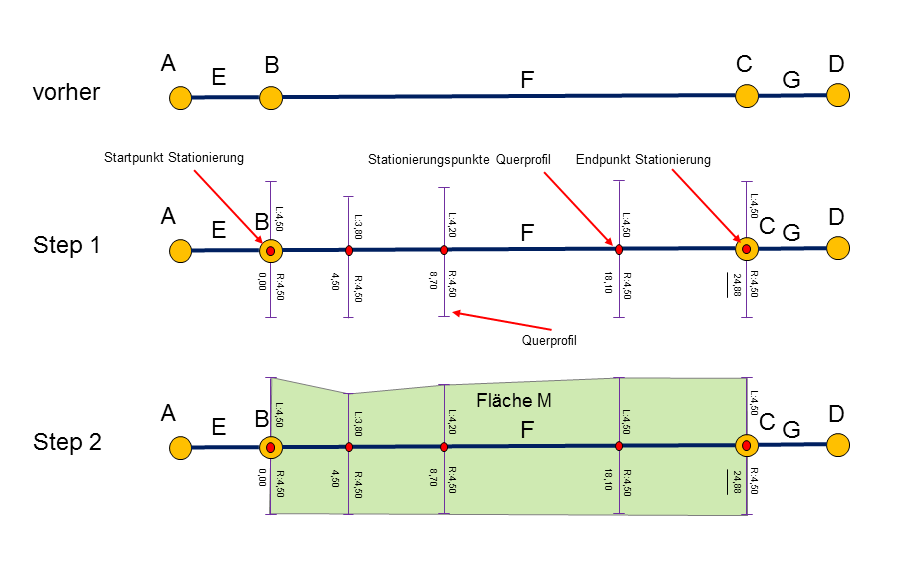
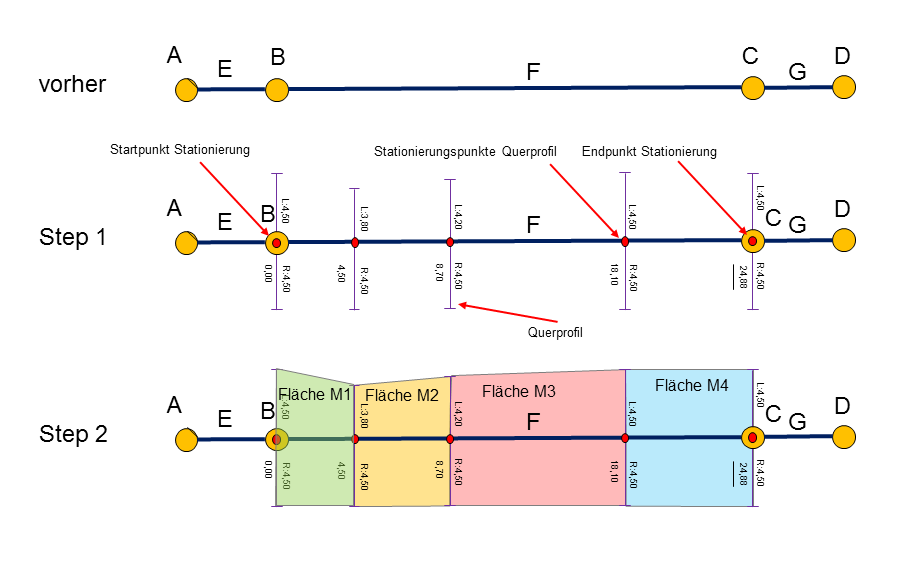
Korrekturen nach Verständigung auf Treffen am 06.11.2018

diff --git a/source/flaechen/flaeche-bearbeiten-trapezmodell.rst b/source/flaechen/flaeche-bearbeiten-trapezmodell.rst
@@ -14,14 +14,15 @@ Geometrie
     * optionale Verschiebung des Start-Straßenelementpunktes oder Neuauswahl des Start-Verbindungspunktes
     * optionale Verschiebung des Ende-Straßenelementpunktes oder Neuauswahl des Ende-Verbindungspunktes
     * optionale Verschiebung, Löschung und/oder Erfassung der dazwischenliegenden Straßenelementpunkte
-    * optionale Neuingabe der L- und/oder R-Ordinaten der Querprofile
-#. Anpassung der Fläche als geschlossenes Polygon (**noch** zu realisieren auf **Applikationsebene**)
-#. falls Straßenelementpunkte entstanden sind: Teilelement auf Straßenelement bilden (**noch** zu realisieren auf **Datenbankebene**)
-#. falls Straßenelementpunkte entstanden sind: Verknüpfung des Teilelementes, der Straßenelementpunkte und des betroffenen Straßenelementes mit der Fläche – Erfüllung der Bedingung der Verknüpfung zwischen Straßenelement und Fläche (**noch** zu realisieren auf **Datenbankebene**)
-#. falls keine Straßenelementpunkte entstanden sind: Verknüpfung des betroffenen Straßenelementes mit der Fläche – Erfüllung der Bedingung der Verknüpfung zwischen Straßenelement und Fläche (**noch** zu realisieren auf **Datenbankebene**)
+    * optionale Neuingabe aller L- und/oder R-Ordinaten der Querprofile
+#. Anpassung der Querschnittsflächen als einzelne, geschlossene Polygone (**noch** zu realisieren auf **Applikationsebene**)
+#. falls Straßenelementpunkte entstanden sind: Teilelemente auf Straßenelement bilden (**noch** zu realisieren auf **Datenbankebene**)
+#. falls Straßenelementpunkte entstanden sind: Verknüpfung der Teilelemente, der Straßenelementpunkte und des betroffenen Straßenelementes mit jeweils passender Querschnittsfläche – Erfüllung der Bedingung der Verknüpfung zwischen Straßenelement und Fläche (**noch** zu realisieren auf **Datenbankebene**)
+#. falls keine Straßenelementpunkte entstanden sind: Verknüpfung des betroffenen Straßenelementes mit der Querschnittsfläche – Erfüllung der Bedingung der Verknüpfung zwischen Straßenelement und Fläche (**noch** zu realisieren auf **Datenbankebene**)
 #. Prüfung der Topologie (**noch** zu realisieren auf **Datenbankebene**)
+#. Anpassung der verknüpften, übergeordneten Verkehrsfläche (**noch** zu realisieren auf **Datenbankebene**)
 
-**Anmerkung:** Im Resultat ist dieser Anwendungsfall identisch mit dem Anwendungsfall :doc:`../flaechen/flaeche-erfassen-zeichnen`, da in beiden Fällen die Applikationsebene einfach eine Fläche an die Datenbankebene übergibt. Nur die konstruktionsbezogene Herangehensweise auf Applikationsebene ist unterschiedlich. Grundsätzlich gilt: Wurde eine Fläche mittels Stationierung und Querprofil erfasst, soll sie dennoch mittels Zeichnen weiterbearbeitet werden können.
+**Anmerkung:** Im Resultat ist dieser Anwendungsfall identisch mit dem Anwendungsfall :doc:`../flaechen/flaeche-erfassen-zeichnen`, da in beiden Fällen die Applikationsebene einfach Flächen an die Datenbankebene übergibt. Nur die konstruktionsbezogene Herangehensweise auf Applikationsebene ist unterschiedlich. Grundsätzlich gilt: Wurde eine Fläche mittels Stationierung und Querprofil erfasst, soll sie dennoch mittels Zeichnen weiterbearbeitet werden können.
 
 .. _flaeche-bearbeiten-trapezmodell_sachdaten:
 

diff --git a/source/flaechen/flaeche-erfassen-trapezmodell.rst b/source/flaechen/flaeche-erfassen-trapezmodell.rst
@@ -14,14 +14,15 @@ Geometrie
     * Erfassung des Start-Straßenelementpunktes oder Auswahl des Start-Verbindungspunktes
     * Erfassung des Ende-Straßenelementpunktes oder Auswahl des Ende-Verbindungspunktes
     * Erfassung der dazwischenliegenden Straßenelementpunkte
-    * Eingabe der L- und R-Ordinaten der Querprofile
-#. Erzeugung einer Fläche als geschlossenes Polygon (**noch** zu realisieren auf **Applikationsebene**)
-#. falls Straßenelementpunkte entstanden sind: Teilelement auf Straßenelement bilden (**noch** zu realisieren auf **Datenbankebene**)
-#. falls Straßenelementpunkte entstanden sind: Verknüpfung des Teilelementes, der Straßenelementpunkte und des betroffenen Straßenelementes mit der Fläche – Erfüllung der Bedingung der Verknüpfung zwischen Straßenelement und Fläche (**noch** zu realisieren auf **Datenbankebene**)
-#. falls keine Straßenelementpunkte entstanden sind: Verknüpfung des betroffenen Straßenelementes mit der Fläche – Erfüllung der Bedingung der Verknüpfung zwischen Straßenelement und Fläche (**noch** zu realisieren auf **Datenbankebene**)
+    * Eingabe aller L- und R-Ordinaten der Querprofile
+#. Erzeugung der Querschnittsflächen als einzelne, geschlossene Polygone (**noch** zu realisieren auf **Applikationsebene**)
+#. falls Straßenelementpunkte entstanden sind: Teilelemente auf Straßenelement bilden (**noch** zu realisieren auf **Datenbankebene**)
+#. falls Straßenelementpunkte entstanden sind: Verknüpfung der Teilelemente, der Straßenelementpunkte und des betroffenen Straßenelementes mit jeweils passender Querschnittsfläche – Erfüllung der Bedingung der Verknüpfung zwischen Straßenelement und Fläche (**noch** zu realisieren auf **Datenbankebene**)
+#. falls keine Straßenelementpunkte entstanden sind: Verknüpfung des betroffenen Straßenelementes mit der Querschnittsfläche – Erfüllung der Bedingung der Verknüpfung zwischen Straßenelement und Fläche (**noch** zu realisieren auf **Datenbankebene**)
 #. Prüfung der Topologie (**noch** zu realisieren auf **Datenbankebene**)
+#. Erzeugung der übergeordneten Verkehrsfläche und Verknüpfung der Querschnittsfläche(n) mit dieser (**noch** zu realisieren auf **Datenbankebene**)
 
-**Anmerkung:** Im Resultat ist dieser Anwendungsfall identisch mit dem Anwendungsfall :doc:`../flaechen/flaeche-erfassen-zeichnen`, da in beiden Fällen die Applikationsebene einfach eine Fläche an die Datenbankebene übergibt. Nur die konstruktionsbezogene Herangehensweise auf Applikationsebene ist unterschiedlich. Grundsätzlich gilt: Wurde eine Fläche mittels Stationierung und Querprofil erfasst, soll sie dennoch mittels Zeichnen weiterbearbeitet werden können.
+**Anmerkung:** Im Resultat ist dieser Anwendungsfall identisch mit dem Anwendungsfall :doc:`../flaechen/flaeche-erfassen-zeichnen`, da in beiden Fällen die Applikationsebene einfach Flächen an die Datenbankebene übergibt. Nur die konstruktionsbezogene Herangehensweise auf Applikationsebene ist unterschiedlich. Grundsätzlich gilt: Wurde eine Fläche mittels Stationierung und Querprofil erfasst, soll sie dennoch mittels Zeichnen weiterbearbeitet werden können.
 
 
 .. _flaeche-erfassen-trapezmodell_sachdaten:

diff --git a/source/flaechen/flaeche-bearbeiten-zeichnen.rst b/source/flaechen/flaeche-bearbeiten-zeichnen.rst
@@ -17,7 +17,7 @@ Geometrie
 #. falls nach wie vor keine Straßenelementpunkte existieren bzw. entstanden sind: Neuverknüpfung des betroffenen Straßenelementes mit der Fläche – Erfüllung der Bedingung der Verknüpfung zwischen Straßenelement und Fläche (**noch** zu realisieren auf **Datenbankebene**)
 #. Prüfung der Topologie (**noch** zu realisieren auf **Datenbankebene**)
 
-**Anmerkung:** Im Resultat ist dieser Anwendungsfall identisch mit dem Anwendungsfall :doc:`../flaechen/flaeche-bearbeiten-trapezmodell`, da in beiden Fällen die Applikationsebene einfach eine Fläche an die Datenbankebene übergibt. Nur die konstruktionsbezogene Herangehensweise auf Applikationsebene ist unterschiedlich. Grundsätzlich gilt: Wurde eine Fläche mittels Zeichnen erfasst, soll sie dennoch mittels Stationierung und Querprofil weiterbearbeitet werden können.
+**Anmerkung:** Im Resultat ist dieser Anwendungsfall identisch mit dem Anwendungsfall :doc:`../flaechen/flaeche-bearbeiten-trapezmodell`, da in beiden Fällen die Applikationsebene einfach Flächen an die Datenbankebene übergibt. Nur die konstruktionsbezogene Herangehensweise auf Applikationsebene ist unterschiedlich. Grundsätzlich gilt: Wurde eine Fläche mittels Zeichnen erfasst, soll sie dennoch mittels Stationierung und Querprofil weiterbearbeitet werden können.
 
 .. _flaeche-bearbeiten-zeichnen_sachdaten:
 

diff --git a/source/flaechen/flaeche-erfassen-zeichnen.rst b/source/flaechen/flaeche-erfassen-zeichnen.rst
@@ -17,7 +17,7 @@ Geometrie
 #. falls keine Straßenelementpunkte entstanden sind: Verknüpfung des betroffenen Straßenelementes mit der Fläche – Erfüllung der Bedingung der Verknüpfung zwischen Straßenelement und Fläche (**noch** zu realisieren auf **Datenbankebene**)
 #. Prüfung der Topologie (**noch** zu realisieren auf **Datenbankebene**)
 
-**Anmerkung:** Im Resultat ist dieser Anwendungsfall identisch mit dem Anwendungsfall :doc:`../flaechen/flaeche-erfassen-trapezmodell`, da in beiden Fällen die Applikationsebene einfach eine Fläche an die Datenbankebene übergibt. Nur die konstruktionsbezogene Herangehensweise auf Applikationsebene ist unterschiedlich. Grundsätzlich gilt: Wurde eine Fläche mittels Zeichnen erfasst, soll sie dennoch mittels Stationierung und Querprofil weiterbearbeitet werden können.
+**Anmerkung:** Im Resultat ist dieser Anwendungsfall identisch mit dem Anwendungsfall :doc:`../flaechen/flaeche-erfassen-trapezmodell`, da in beiden Fällen die Applikationsebene einfach ein Flächen an die Datenbankebene übergibt. Nur die konstruktionsbezogene Herangehensweise auf Applikationsebene ist unterschiedlich. Grundsätzlich gilt: Wurde eine Fläche mittels Zeichnen erfasst, soll sie dennoch mittels Stationierung und Querprofil weiterbearbeitet werden können.
 
 .. _flaeche-erfassen-zeichnen_sachdaten:
 
